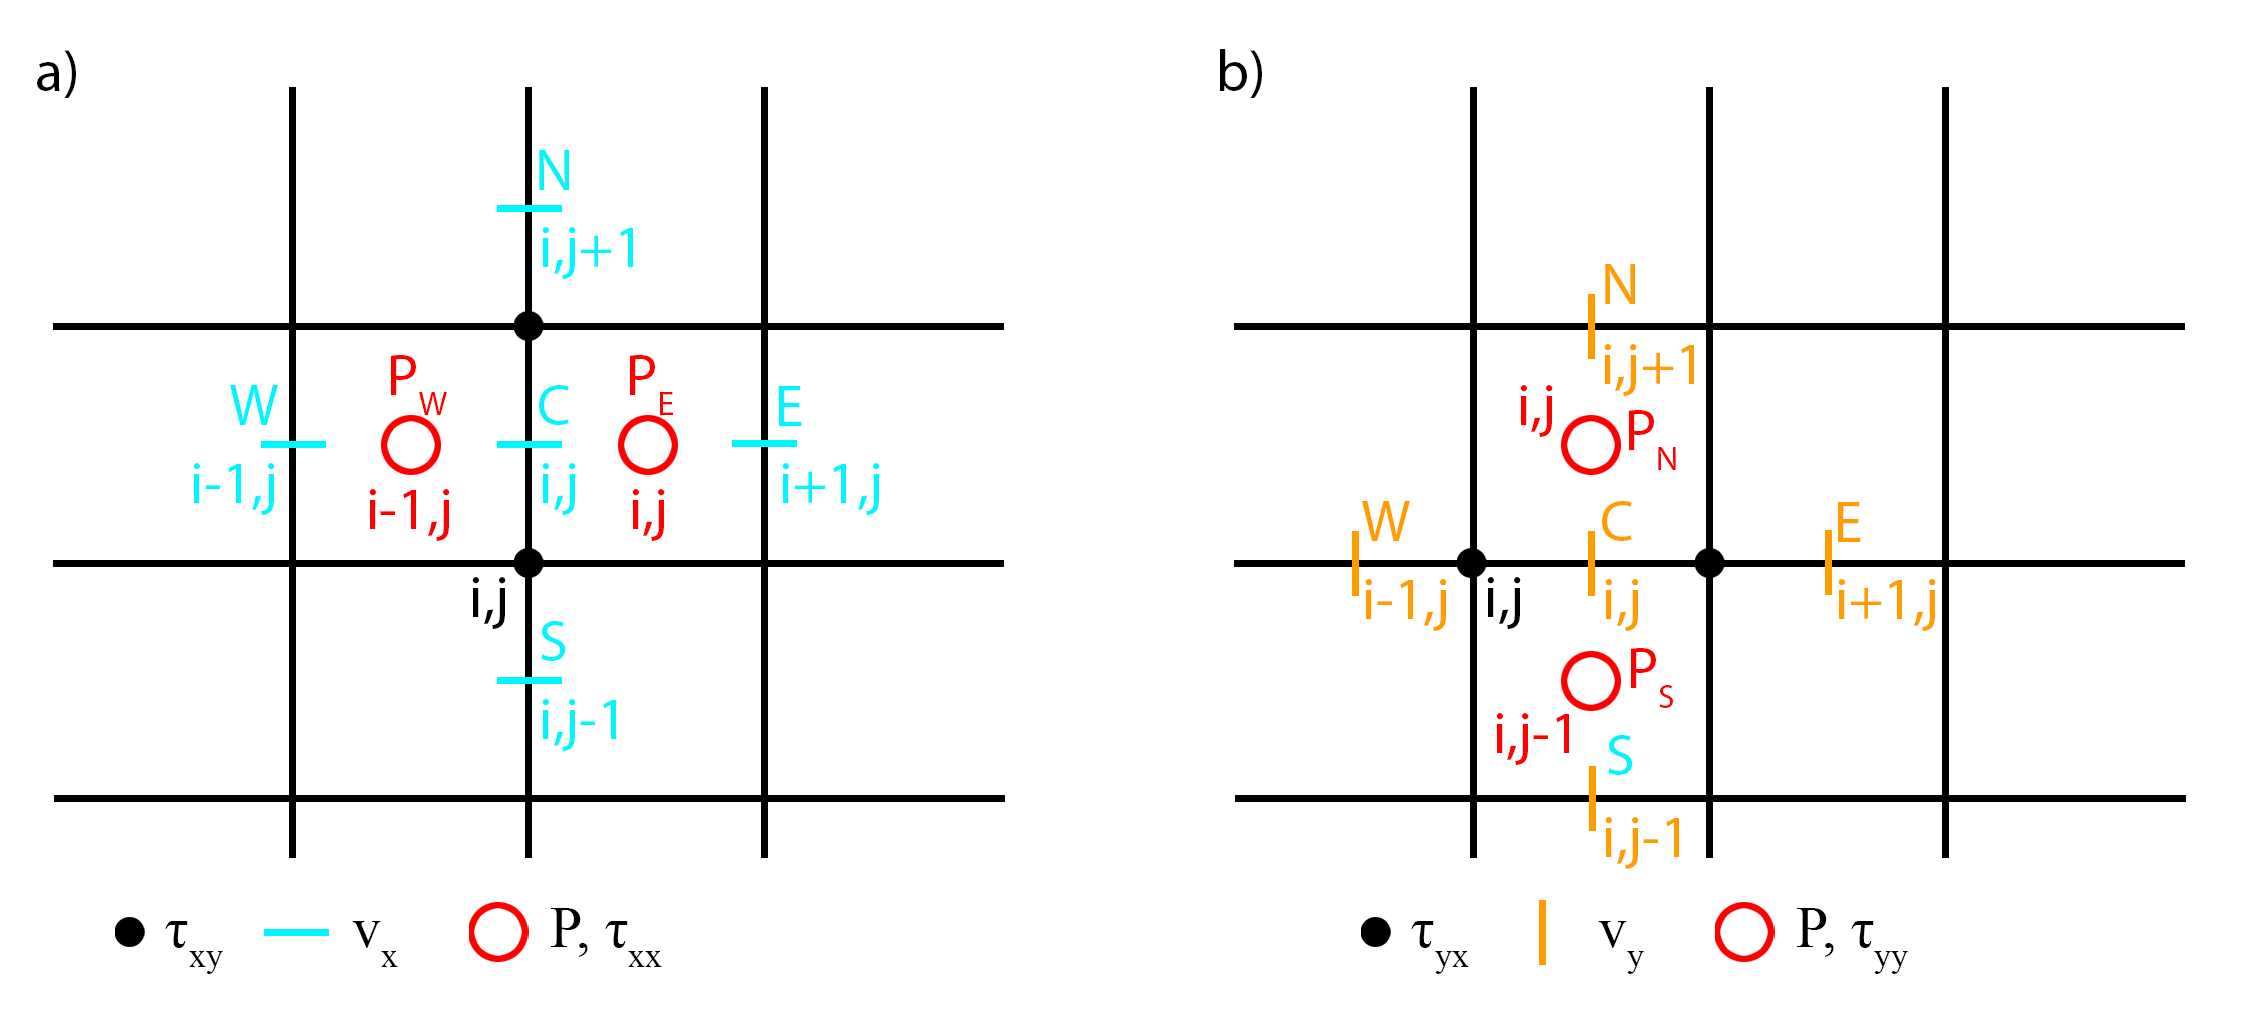
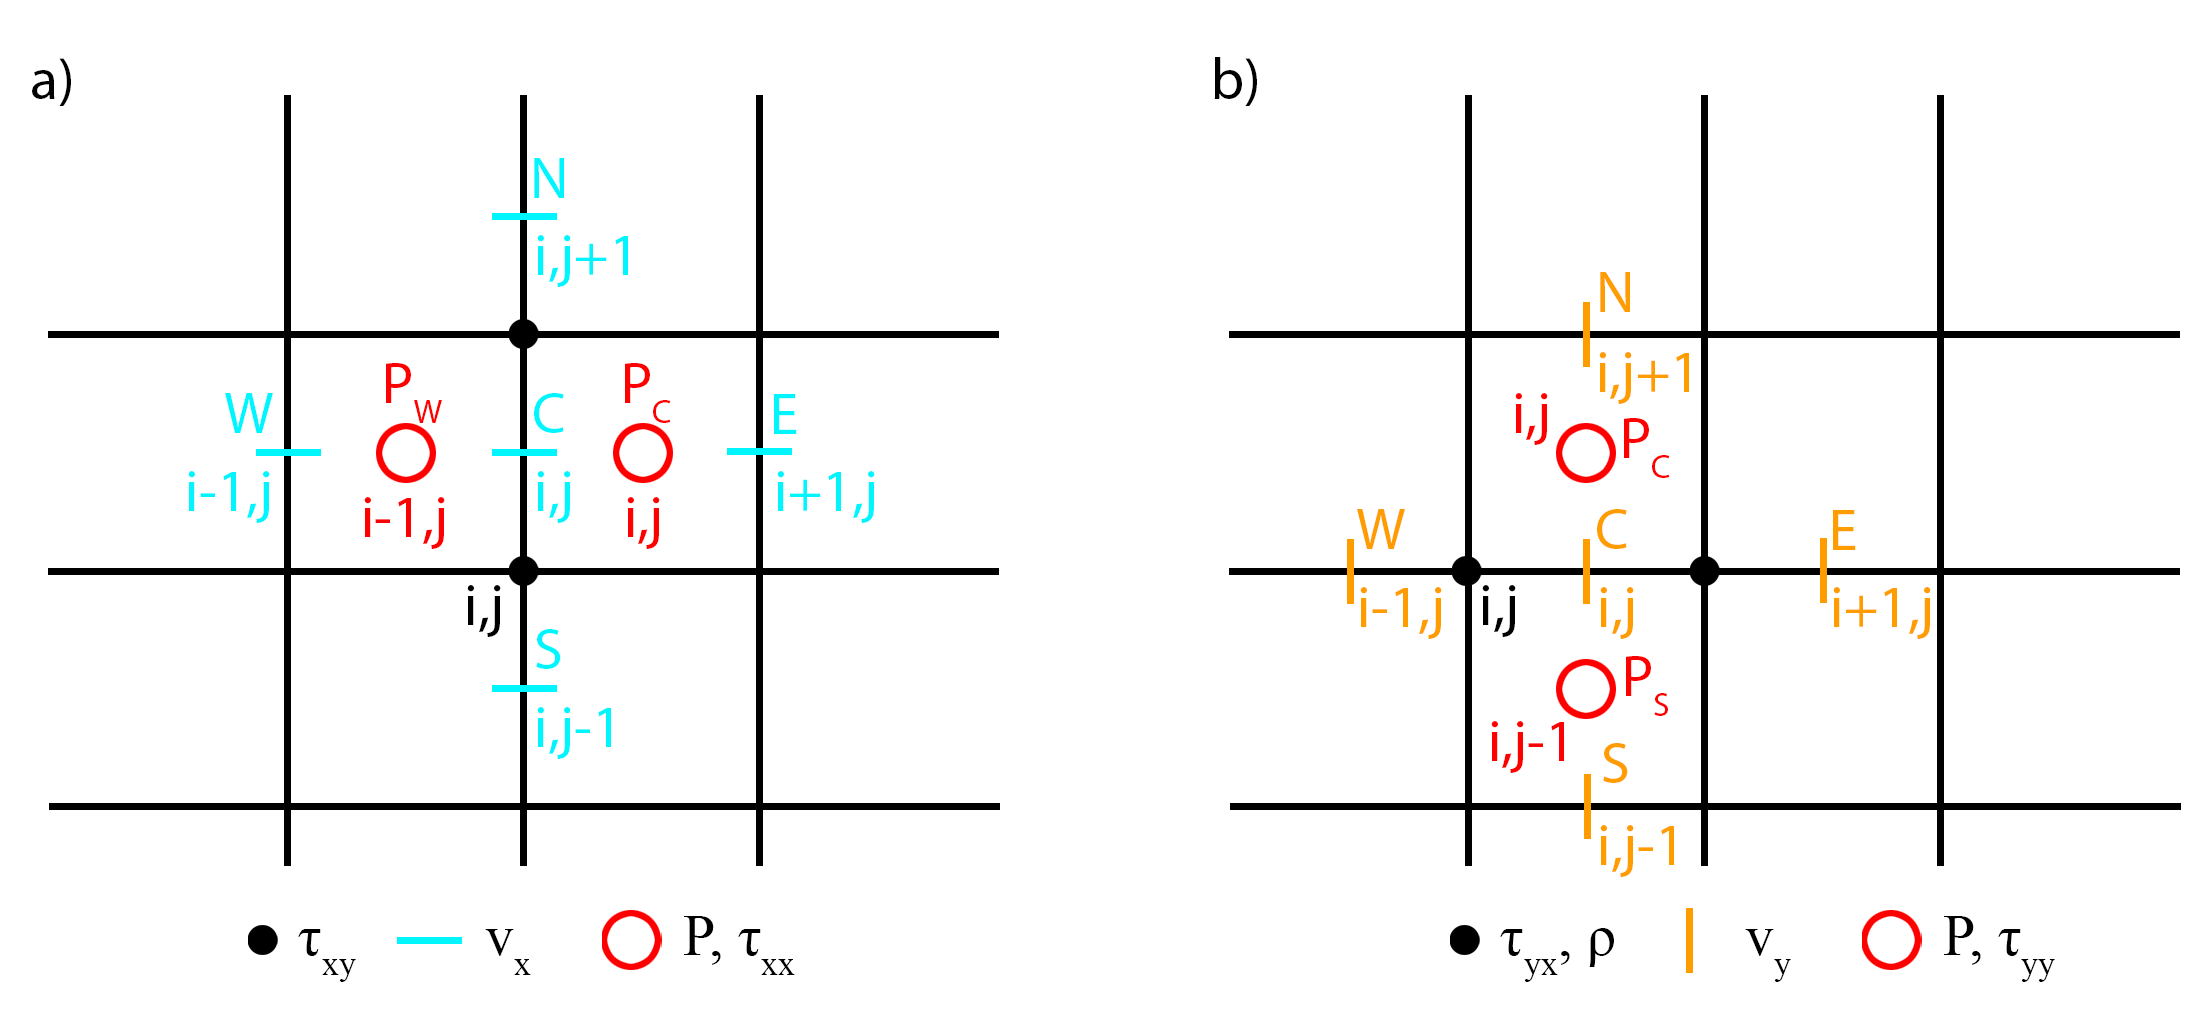
Finalized Exercise 9

diff --git a/examples/StokesEquation/2D/README.md b/examples/StokesEquation/2D/README.md
@@ -1,6 +1,6 @@
 # General Information
 
-To numerically solve for the three unknows $v_x$, $v_y$, and $P$, one needs to discretize the x- and y-component of the **momentum equation** and the **continuum equation**. Here, we assume an incompressible medium, i.e. we use the so called Bousinesque approximation. 
+To numerically solve for the three unknows $v_x$, $v_y$, and $P$, one needs to discretize the *x-* and *y-component* of the **momentum equation** and the **continuum equation**. Here, we assume an incompressible medium, i.e. we use the so called Boussinesq-approximation. 
 
 ---------------------
 ---------------------
@@ -14,7 +14,7 @@ $$
 \end{equation}
 $$
 
-where $P$ is the total pressure,  $\rho$ is the density, $g_i$ the gravitational acceleration, $\frac{\partial}{\partial_i}$ the spatial derivative in the direction of $x_i$, and $\tau_{ij}$ is the deviatoric stress tensor and defined as: 
+where $P$ is the total pressure,  $\rho$ is the density, $g_i$ the gravitational acceleration, $\frac{\partial}{\partial{x_i}}$ the spatial derivative in the direction of $x_i$, and $\tau_{ij}$ is the deviatoric stress tensor and defined as: 
 
 $$\begin{equation}
 \tau_{ij} = 2\eta \dot{\varepsilon}_{ij}.
@@ -34,7 +34,7 @@ where $v_i$ is the velocity in the i-th direction.
 
 The conservation equations of *momentum* and *mass* are solved properly in two dimensions (*x* and *y*) using a staggered finite difference grid, where the horizontal (*cyan dashes*) and vertical (*orange dashes*) velocities are defined inbetween the regular grid points or *vertices*, and the pressure (*red circles*) within a finite difference cells or *centroids* (Figure 1). A staggered grid enables the conservation of the stress between adjacent grid points and one can solve equations $(1)$ and $(3)$ for the unknows.  
 
-<img src="./Figures/MomentumGrid_2D.png" alt="drawing" width="600"/> <br>
+<img src="./Figures/MomentumGrid.png" alt="drawing" width="600"/> <br>
 **Figure 1. Staggered finite difference grid.** Discretization of the conservation equations of momemtum and mass. The horizontal and vertical velocities require *ghost nodes* at the North and South and East and West boundary, respectively. <!-- What about the pressure ghost nodes? Are they even necessary? -->
 
 ### Constant Viscosity
@@ -64,16 +64,16 @@ $$
 \end{equation}
 $$
 
-For each equation, one can define a so-called numerical stencil which highlights the position of the parameters with respect to a central point $(i,j)$, where *i* and *j* are the indices in the horizontal and vertical direction, respectively. The central point corresponds to the number of the equation in the linear system of equations. 
+For each equation, one can define a so-called numerical stencil which highlights the position of the required parameters with respect to the central point $(i,j)$, where *i* and *j* are the indices in the horizontal and vertical direction, respectively. The central point corresponds to the number of the equation in the linear system of equations. 
 
 #### Stencil
 
 The stencils for the momentum equation assuming a constant viscosity shows the points required to solve the equations for each component of the momentum equation using the finite difference approach (Figure 2). 
 
 <img src="./Figures/Stencil_const_eta.png" alt="drawing" width="600"/> <br>
-**Figure 2. Numerical stencils for the momentum equation.** a) *x-component. b) y-component.
+**Figure 2. Numerical stencils for the momentum equation.** a) *x-component*. b) *y-component*.
 
-Using the finite difference operators equations $(5)$ and $(6)$ are defined as: 
+Using the finite difference operators, equations $(5)$ and $(6)$ are defined as: 
 
 *x-component*
 
@@ -139,7 +139,7 @@ The most common boundary conditions for the momentum equation are a combination 
 
 **Free slip** 
 
-Free slip boundary conditions allow the fluid to move along the boundary assuming **no shear stress** and **no orthogonal velocity** along the boundary. That is for the lateral boundaries **(E, W)** the conditions are: 
+*Free slip* boundary conditions allow the fluid to move along the boundary assuming **no shear stress** and **no orthogonal velocity** along the boundary. That is for the lateral boundaries **(E, W)** the conditions are: 
 
 $$\begin{equation}
 \begin{split}
@@ -163,7 +163,7 @@ Solving the system of equations using a direct solution, one needs to modify the
 
 *x-component*
 
-For free slip boundary conditions one needs to define the horizontal velocity $v_x$ for the *ghost nodes* at the upper (**N**) and lower (**S**) boundary which are defined as: 
+For *free slip* boundary conditions one needs to define the horizontal velocity $v_x$ for the *ghost nodes* at the upper (**N**) and lower (**S**) boundary which are defined as (see equation $(14)$ ): 
 
 *South* (j = 1)
 
@@ -179,11 +179,11 @@ v_{x,(i,GN)} = v_{x,(i,ncy)}.
 \end{equation}
 $$
 
-Along the lateral boundaries (**E**, **W**) we can simply set the velocities to zero.
+Along the lateral boundaries (**E**, **W**) we can simply set the velocities to zero (see equation $(13)$ ).
 
 *y-component*
 
-For the vertical velocities $v_y$ one needs to define the velocity for the *ghost nodes* at the left (**W**) and right (**E**) boundary as: 
+For the vertical velocity $v_y$ one needs to define the velocity at the *ghost nodes* for the left (**W**) and right (**E**) boundary as (see equation $(13)$ ): 
 
 *West* (i = 1)
 
@@ -199,9 +199,9 @@ v_{y,(GE,j)} = v_{y,(ncx,j)}.
 \end{equation}
 $$
 
-Along the horizontal boundaries (**N**, **S**), we can simply set the velocity $v_y$ to zero. 
+Along the horizontal boundaries (**N**, **S**), we can simply set the velocity $v_y$ to zero (see equation $(14)$ ). 
 
-Using the equations $(15)$ - $(18)$ the coefficients of the equations adjacent to the corresponding boundaries changes to (the right-hand side actually does not need to be changed for free slip boundary conditions): 
+Using the equations $(15)$ - $(18)$ the coefficients of the equations adjacent to the corresponding boundaries changes (the right-hand side actually does not change for *free slip* boundary conditions) to: 
 
 *x-component* 
 
@@ -223,14 +223,14 @@ $$
 
 where $C = -\frac{2\eta}{\Delta{x^2}}-\frac{\eta}{\Delta{y^2}}$.
 
-Along the lateral boundaries $C=1$ and the remaining coefficients are equal to zero.
+Along the lateral boundaries (**E**, **W**), $C=1$ and the remaining coefficients are equal to zero.
 
 *y-component* 
 
 *West* (i = 1)
 
 $$\begin{equation}
-P_SP_{i,j-1}+P_CP_{i,j}+Sv_{y,(i,j-1)}+Cv_{y,(i,j)}+Ev_{y,(i+1,j)}+Nv_{y,(i,j+1)} = -\rho g_y,
+P_SP_{i,j-1}+P_CP_{i,j}+Sv_{y,(i,j-1)}+Cv_{y,(i,j)}+Ev_{y,(i+1,j)}+Nv_{y,(i,j+1)} = -\frac{\rho_{i,j}+\rho_{i+1,j}}{2} g_y,
 \end{equation}
 $$
 
@@ -239,21 +239,21 @@ where $C = -\frac{\eta}{\Delta{x^2}}-\frac{2\eta}{\Delta{y^2}}$.
 *East* (i = ncx)
 
 $$\begin{equation}
-P_SP_{i,j-1}+P_CP_{i,j}+Sv_{y,(i,j-1)}+Wv_{y,(i-1,j)}+Cv_{y,(i,j)}+Nv_{y,(i,j+1)} = -\rho g_y,
+P_SP_{i,j-1}+P_CP_{i,j}+Sv_{y,(i,j-1)}+Wv_{y,(i-1,j)}+Cv_{y,(i,j)}+Nv_{y,(i,j+1)} = -\frac{\rho_{i,j}+\rho_{i+1,j}}{2} g_y,
 \end{equation}
 $$
 
 where $C = -\frac{\eta}{\Delta{x^2}}-\frac{2\eta}{\Delta{y^2}}$.
 
-Along the horizontal boundaries $C=1$ and the remaining coefficients are equal to zero.
+Along the horizontal boundaries (**N**, **S**), $C=1$ and the remaining coefficients are equal to zero.
 
 --------------
 
 **No slip** 
 
-No slip boundary conditions fix the fluid along the boundary and set the horizontal and vertical velocity equal to zero.. 
+*No slip* boundary conditions fix the fluid along the boundary and set the horizontal and vertical velocity equal to zero.. 
 
-That is, for all boundaries **(E, W, S, N)** the conditions are: 
+That is, for all boundaries (**E**, **W**, **S**, **N**) the conditions are: 
 
 $$\begin{equation}
 \begin{split}
@@ -265,7 +265,7 @@ $$
 
 *x-component*
 
-One needs the velocity at the *ghost nodes* for the horizontal velocity $v_x$ at the lower (**S**) and upper (**N**) boundary which are defined as: 
+One needs the velocity at the *ghost nodes* for the horizontal velocity at the lower (**S**) and upper (**N**) boundary which are defined as: 
 
 *South* (j = 1)
 
@@ -285,11 +285,11 @@ $$
 
 where $V_{BC,N}$ is the velocity along the boundary (here 0). 
 
-Along the lateral boundaries (**E**, **W**) we can simply set the velocity $v_x$ to zero (as in the *free slip* case). 
+Along the lateral boundaries (**E**, **W**) we can simply set the velocity to zero (as in the *free slip* case). 
 
 *y-component* 
 
-For the vertical velocities $v_y$ one needs to define the velocity at the *ghost nodes* for the left (**W**) and right (**E**) boundary as: 
+For the vertical velocity one needs to define the velocity at the *ghost nodes* for the left (**W**) and right (**E**) boundary as: 
 
 *West* (i = 1)
 
@@ -309,7 +309,7 @@ $$
 
 where $V_{BC,E}$ is the velocity along the boundary (here 0). 
 
-Along the horizontal boundaries (**N**, **S**), we can simply set the velocity $v_y$ to zero (as in the *free slip* case). 
+Along the horizontal boundaries (**N**, **S**), we can simply set the velocity to zero (as in the *free slip* case). 
 
 Using the equations $(24)$ - $(27)$ the coefficients of the equations adjacent to the corresponding boundaries and the right-hand side changes to: 
 
@@ -333,7 +333,7 @@ $$
 
 where $C = -\frac{2\eta}{\Delta{x^2}}-\frac{3\eta}{\Delta{y^2}}$.
 
-Along the lateral boundaries $C=1$ and the remaining coefficients and the right-hand side are equal to zero.
+Along the lateral boundaries (**E**, **W**), $C=1$ and the remaining coefficients and the right-hand side are equal to zero.
 
 *y-component* 
 
@@ -355,13 +355,17 @@ $$
 
 where $C = -\frac{3\eta}{\Delta{x^2}}-\frac{2\eta}{\Delta{y^2}}$.
 
-Along the horizontal boundaries $C=1$ and the remaining coefficients and the right-hand side are equal to zero.
+Along the horizontal boundaries (**E**, **W**), $C=1$ and the remaining coefficients and the right-hand side are equal to zero.
+
+-------------
 
 ### Variable Viscosity
 
 #### Stencil
 
 #### Boundary Conditions
+
+-------------
 
 ### Continuum Equation 
 
@@ -400,23 +404,23 @@ $$
 
 To solve the linear system of equations, one needs to collect the coefficients for the coefficient matrix $\bold{K}$ and set up the righ-hand side $\overrightharpoon{rhs}$ (at least for the direct solution). 
 
-To set up the coefficient matrix $\bold{K}$, one needs to use a consecutive numbering for each unknown variable *node*, corresponding to one equation, respectively. Here, we first the number the equations of each corresponding central reference point $(i,j)$ for the *x-component* of the momentum equation (that is for the unknown $v_x$), followed by its *y-component* (the unknown $v_y$), and at last the equations of the conservation of mass (for the unknown $P$). The numbering for each equation is then defined as: 
+To set up the coefficient matrix $\bold{K}$, one needs to use a consecutive numbering for each unknown variable *node*, corresponding to one equation. Here, we first the number the equations of each corresponding central reference point $(i,j)$ for the *x-component* of the momentum equation (that is for the unknown $v_x$), followed by its *y-component* (the unknown $v_y$), and at last the equations of the conservation of mass (for the unknown $P$). The numbering for each equation is then defined as: 
 
-*x-compnent (v<sub>x</sub>)* 
+*x-compnent* ($v_x$) 
 
 $$\begin{equation}
 ii_x = 1\ \textrm{--}\ \left(nv_x \cdot nc_y\right),
 \end{equation}
 $$
 
-*y-component (v<sub>y</sub>)*
+*y-component* ($v_y$)
 
 $$\begin{equation}
 ii_y = \left(nv_x \cdot nc_y + 1 \right)\ \textrm{--}\ \left(nv_x \cdot nc_y + nc_x \cdot nv_y\right),
 \end{equation}
 $$
 
-*conituum equation (P)*
+*conituum equation* ($P$)
 
 $$\begin{equation}
 ii_p = \left(nv_x \cdot nc_y + nc_x \cdot nv_y + 1\right)\ \textrm{--}\ \left(nv_x \cdot nc_y + nc_x \cdot nv_y + nc_x \cdot nc_y\right),
@@ -425,7 +429,7 @@ $$
 
 where $nc_i$ and $nv_i$ are the numbers of *centroids* and *vertices* in the *i*-th direction, respectively. 
 
-Each *line* $(ii)$ of the coefficient matrix $\bold{K}$ belongs to an equation to solve, where the coefficients $K[ii_j,i_k]$ for the unknown variable points in the numerical stencils (Fig. 2) are located in the column of each line (relative to the central point $\left[ii_j,i_c\right]$): 
+Each *line* $(ii)$ of the coefficient matrix $\bold{K}$ belongs to an equation, where the coefficients $K[ii_j,i_k]$ for the unknown variable points in the numerical stencils (Fig. 2) are located in the corresponding columns of each line (relative to the central point $\left[ii_j,i_c\right]$): 
 
 *x-component*
 
@@ -463,13 +467,13 @@ $$
 This results in a coefficient matrix $\bold{K[ii_j,i_k]}$ in the form of: 
 
 <img src="./Figures/CoefficientMatrix.png" alt="drawing" width="500"/> <br>
-**Figure 4. Coefficient matrix.** Non-zero entries of a coefficient matrix for a resolution of $nc_x=nc_y=10$ and a constant viscosity. Highlighted are the areas for the different equations: v<sub>x</sub> - *x-component* of the momentum equation, v<sub>y</sub> - *y-component* of the momentum equation, *P* - continuum equation. 
+**Figure 4. Coefficient matrix.** Non-zero entries of a coefficient matrix for a resolution of $nc_x=nc_y=10$ and a constant viscosity. Highlighted are the areas for the different equations: $v_x$ - *x-component* of the momentum equation, $v_y$ - *y-component* of the momentum equation, $P$ - continuum equation. 
 
-The right-hand side vector $\overrightharpoon{rhs}$ is given by the boundary and initial conditions. 
+The right-hand side vector $\overrightharpoon{rhs}$ is given by the boundary and initial conditions (see equations $(13)$ - $(31)$ ). 
 
 ### Direct 
 
-Using a direct solution method, one simply needs to right divide the coefficient matrix by the right-hand side to obtain the solution vector: 
+Using a direct solution method, one simply needs to do a right division of the coefficient matrix by the right-hand side to obtain the solution vector: 
 
 $$\begin{equation}
 \bold{K} \backslash \overrightharpoon{rhs} = \overrightharpoon{x}.

diff --git a/examples/StokesEquation/README.md b/examples/StokesEquation/README.md
@@ -6,11 +6,11 @@
 
 $$ 
 \begin{equation}
-\rho \frac{D \overrightarrow{v}}{Dt} = \nabla \cdot \boldsymbol{\sigma} + \rho \boldsymbol{g},
+\rho \frac{D \overrightharpoon{v}}{Dt} = \nabla \cdot \boldsymbol{\sigma} + \rho \boldsymbol{g},
 \end{equation}
 $$
 
-where $\rho$ is the density [kg/m<sup>3</sup>], $\overrightarrow{v}$ is the velocity vector [m/s], $\boldsymbol{\sigma}$ is the *Cauchy stress tensor* [Pa], $\boldsymbol{g}$ is the gravitational acceleration [m/s<sup>2</sup>], and the term on the left-hand side is the Lagrangian time derivative which is in Eulerian form $\frac{D}{Dt} = \frac{\partial{}}{\partial{t}} + \overrightarrow{v} \cdot \nabla$. 
+where $\rho$ is the density [kg/m<sup>3</sup>], $\overrightharpoon{v}$ is the velocity vector [m/s], $\boldsymbol{\sigma}$ is the *Cauchy stress tensor* [Pa], $\boldsymbol{g}$ is the gravitational acceleration [m/s<sup>2</sup>], and the term on the left-hand side is the Lagrangian time derivative which is in Eulerian form $\frac{D}{Dt} = \frac{\partial{}}{\partial{t}} + \overrightharpoon{v} \cdot \nabla$. 
 
 The *Cauchy stress tensor* is given by: 
 
@@ -60,7 +60,7 @@ $$
 \end{equation}
 $$
 
-or in the form of the unknowns *v<sub>x</sub>*, *v<sub>y</sub>*, and *P*:
+or in the form of the unknowns $v_x$, $v_y$, and $P$:
 
 $$
 \begin{equation}
@@ -68,7 +68,7 @@ $$
 \end{equation}
 $$
 
-Assuming constant viscosity equation $(7)$ simplifies further to: 
+Assuming a constant viscosity further simplifies equation $(7)$ to: 
 
 $$
 \begin{equation}
@@ -78,7 +78,7 @@ $$
 
 ### Continuum Equation
 
-&emsp;Equation $(8)$ provides us two equations for our three unknowns. Thus, one needs to also consider the mass conservation equation (i.e., we do work with a continuum), where one can further simplify the problem by assuming an incompressible fluid (i.e., Boussinesq-approximation):
+&emsp;Equation $(8)$ provides us two equations for our three unknowns. Thus, one needs to also consider the mass conservation equation (we do work with a continuum), where one can further simplify the problem by assuming an incompressible fluid (i.e., Boussinesq-approximation):
 
 $$
 \begin{equation}
@@ -86,7 +86,7 @@ $$
 \end{equation}
 $$
 
-Equations $(8)$ and $(9)$ enable us to solve for the three unknowns *v<sub>x</sub>*, *v<sub>y</sub>*, and *P*. 
+Equations $(8)$ and $(9)$ enable us to solve for the three unknowns $v_x$, $v_y$, and $P$. 
 
 ### Equation of State
 
